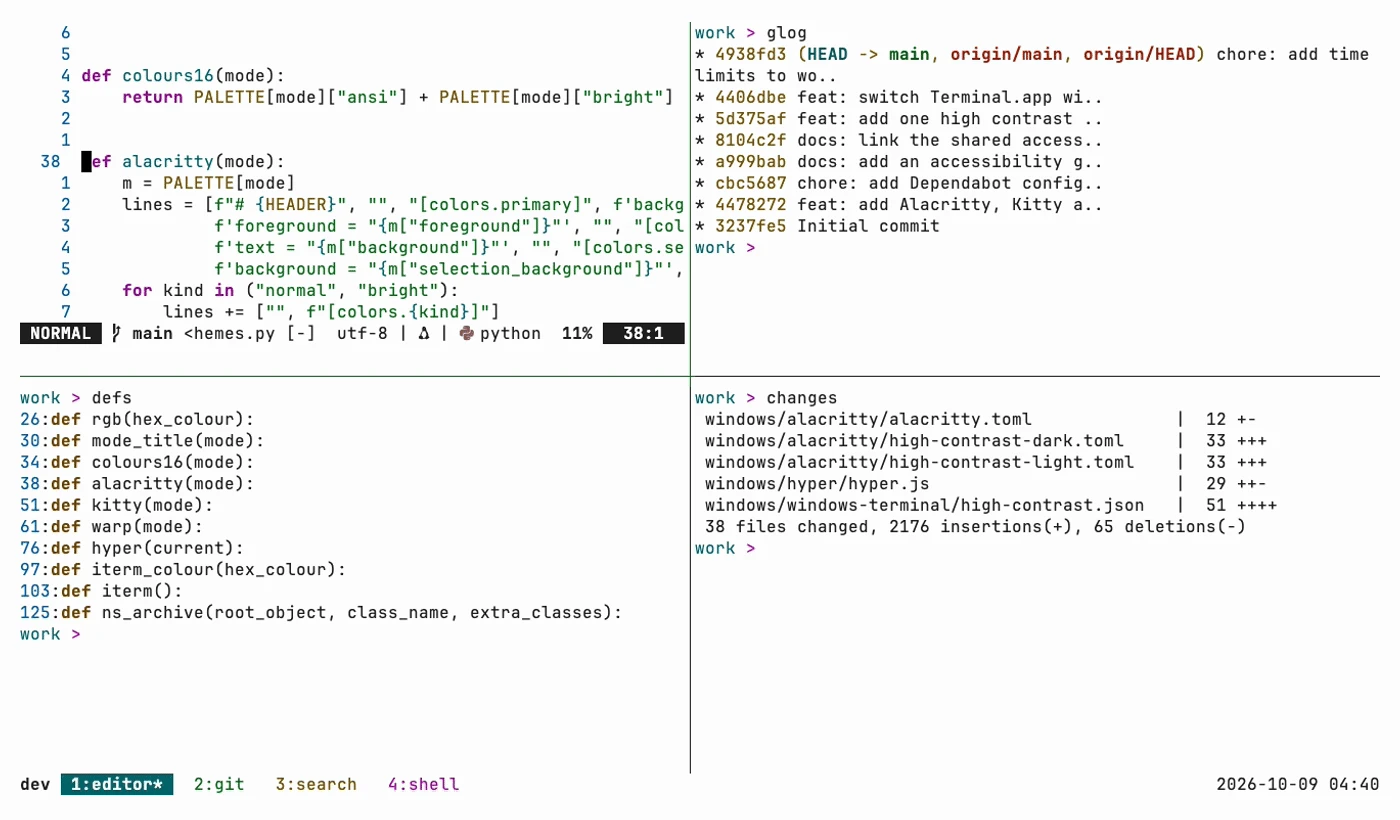
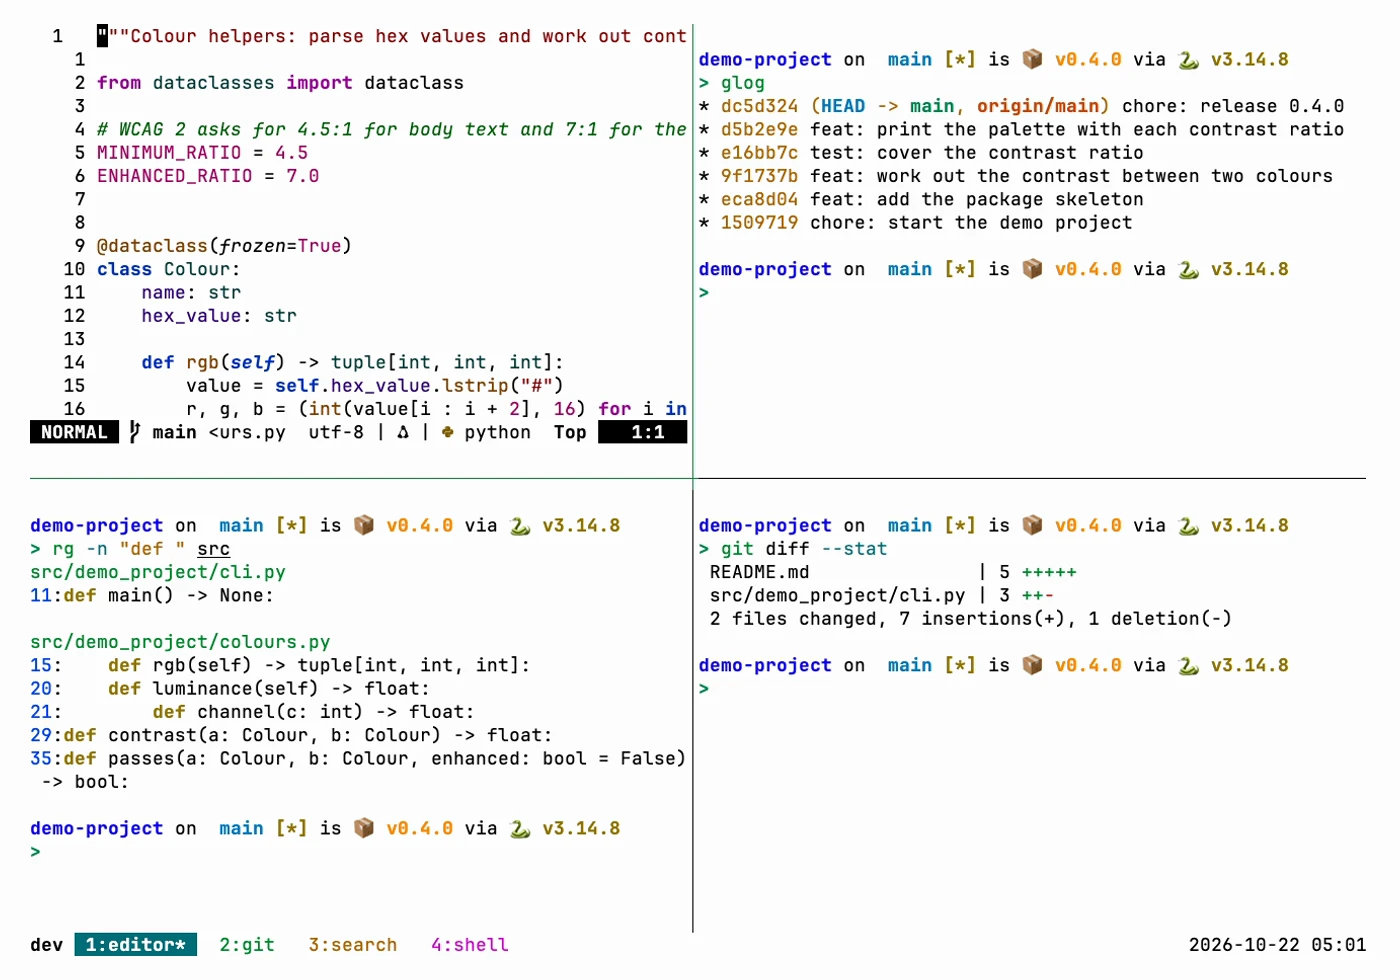
docs: re-record the demo media in Zacess Deep Contrast (#20)
Closes #19

Changed region(s): [[0.0, 0.0305, 0.9829, 0.8537], [0.0, 0.9451, 0.3686, 0.9756], [0.86, 0.9451, 0.9829, 0.9756]]

diff --git a/README.md b/README.md
@@ -6,26 +6,39 @@
 
 ## In action
 
-Screenshots in the earlier High Contrast palette, dark and light, taken before the switch to the
-Zacess themes. Each one links to a short animation of the same scene.
+Screenshots in Zacess Deep Contrast Dark and Light, recorded in a demo project. Each one links
+to a short animation of the same scene.
 
 ### Shell
 
 | Dark | Light |
 | --- | --- |
-| [![Dark: the terminal in the earlier High Contrast palette showing a coloured git log, a ripgrep search and a diff summary](docs/demo/shell-dark.webp)](docs/demo/terminal-dark.gif) | [![Light: the terminal in the earlier High Contrast palette showing a coloured git log, a ripgrep search and a diff summary](docs/demo/shell-light.webp)](docs/demo/terminal-light.gif) |
+| [![Dark: the shell showing a coloured git log, a ripgrep search and a diff summary in a demo project](docs/demo/shell-dark.webp)](docs/demo/terminal-dark.gif) | [![Light: the shell showing a coloured git log, a ripgrep search and a diff summary in a demo project](docs/demo/shell-light.webp)](docs/demo/terminal-light.gif) |
 
 ### Neovim
 
 | Dark | Light |
 | --- | --- |
-| [![Dark: Neovim with the high-contrast colour scheme editing a Python file, with the status line at the bottom](docs/demo/neovim-dark.webp)](docs/demo/terminal-dark.gif) | [![Light: Neovim with the high-contrast colour scheme editing a Python file, with the status line at the bottom](docs/demo/neovim-light.webp)](docs/demo/terminal-light.gif) |
+| [![Dark: Neovim with the Zacess colour scheme editing a Python file, with relative line numbers and the status line at the bottom](docs/demo/neovim-dark.webp)](docs/demo/terminal-dark.gif) | [![Light: Neovim with the Zacess colour scheme editing a Python file, with relative line numbers and the status line at the bottom](docs/demo/neovim-light.webp)](docs/demo/terminal-light.gif) |
 
 ### tmux
 
 | Dark | Light |
 | --- | --- |
-| [![Dark: tmux with four coloured tabs named editor, git, search and shell, the editor window split into Neovim, git log, ripgrep and diff panes](docs/demo/tmux-dark.webp)](docs/demo/tmux-dark.gif) | [![Light: tmux with four coloured tabs named editor, git, search and shell, the editor window split into Neovim, git log, ripgrep and diff panes](docs/demo/tmux-light.webp)](docs/demo/tmux-light.gif) |
+| [![Dark: tmux with four coloured tabs named editor, git, search and shell, the editor window split into Neovim, a ripgrep search, a git log and a diff summary](docs/demo/tmux-dark.webp)](docs/demo/tmux-dark.gif) | [![Light: tmux with four coloured tabs named editor, git, search and shell, the editor window split into Neovim, a ripgrep search, a git log and a diff summary](docs/demo/tmux-light.webp)](docs/demo/tmux-light.gif) |
+
+### Re-recording
+
+Each scene is a [VHS](https://github.com/charmbracelet/vhs) script in [`docs/demo`](docs/demo),
+recorded once per theme in a throwaway demo under `/tmp/demo`, so the shots show the real config
+with nothing personal on screen. The colours come from
+[Zacess Themes](https://github.com/zacesshq/themes).
+
+```sh
+brew install vhs gifsicle webp
+docs/demo/record.sh           # every scene, dark and light
+docs/demo/record.sh tmux      # one scene, by its file name
+```
 
 ## What's here
 

diff --git a/CHANGELOG.md b/CHANGELOG.md
@@ -15,6 +15,7 @@ Versioning follows [Semantic Versioning](https://semver.org/spec/v2.0.0.html).
 
 ### Added
 
+- The screenshots and clips are recorded again in Zacess Deep Contrast Dark and Light from VHS scripts in `docs/demo`, using the real config in a throwaway demo project. `docs/demo/record.sh` makes them all again with one command.
 - Screenshots and short animations of the config in action, dark and light, in the README's In action section.
 - The High Contrast palette in `palette/high-contrast.json`: vivid colours on black for dark mode, the same hues at 7:1 or more on white for light mode, with all 16 colours set.
 - `scripts/build-themes.py` writes every theme file from it, plus the colour table in `guides/high-contrast.md`. CI fails on a stale file or a colour below its contrast floor.
